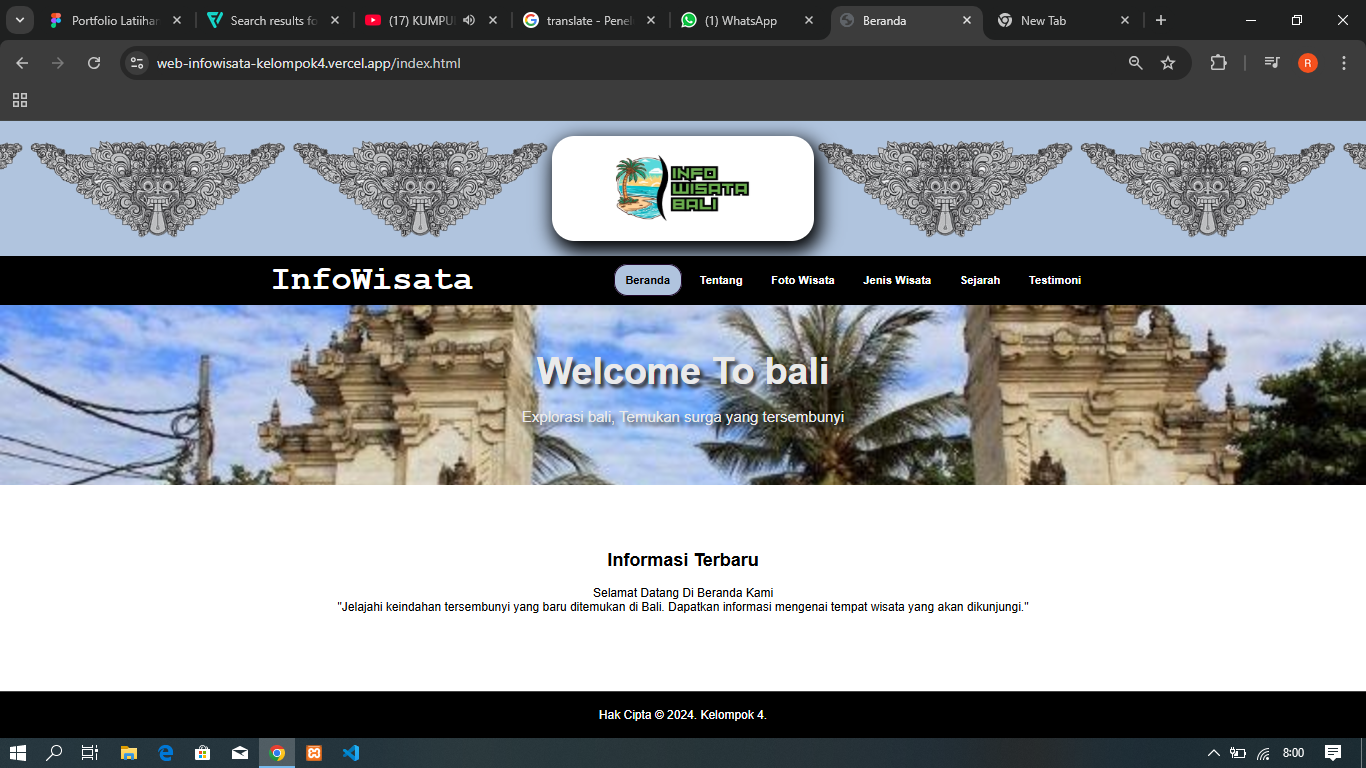
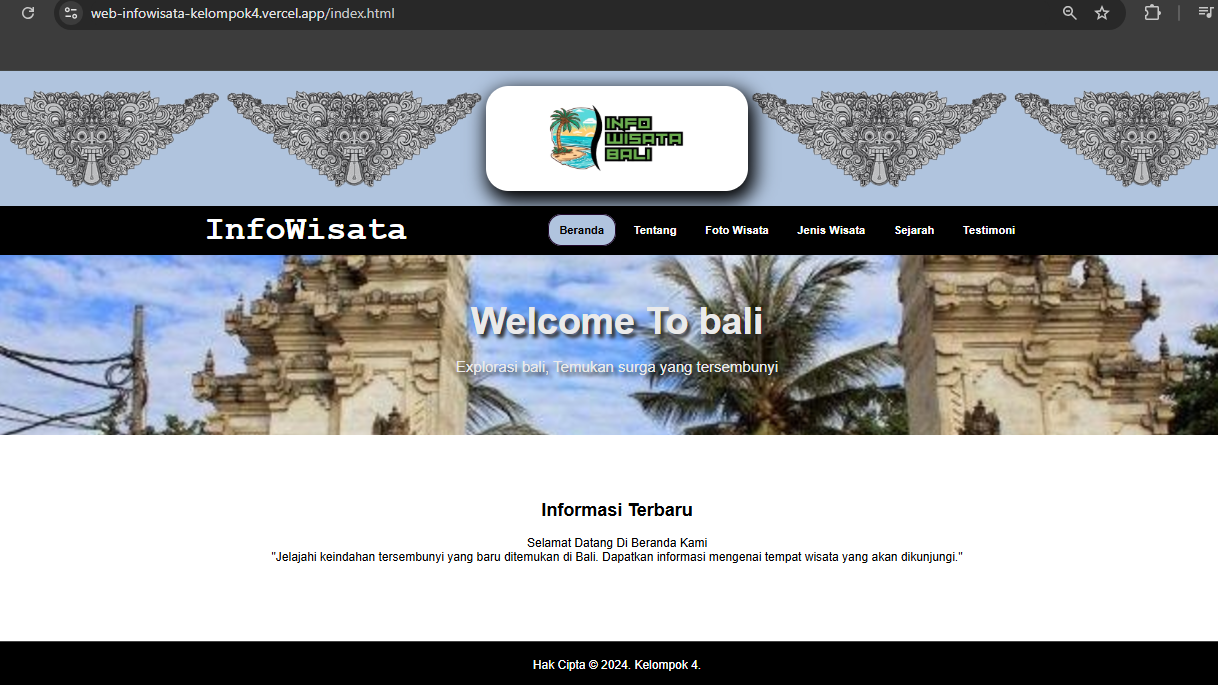
revisi2 commit

diff --git a/style.css b/style.css
@@ -147,6 +147,10 @@ section {
     margin-bottom: 50px;
 }
 
+.beranda .kolom p {
+    color: var(--text-color);
+}
+
 .beranda .kolom h2 {
     font-size: 40px;
     font-weight: 700;
